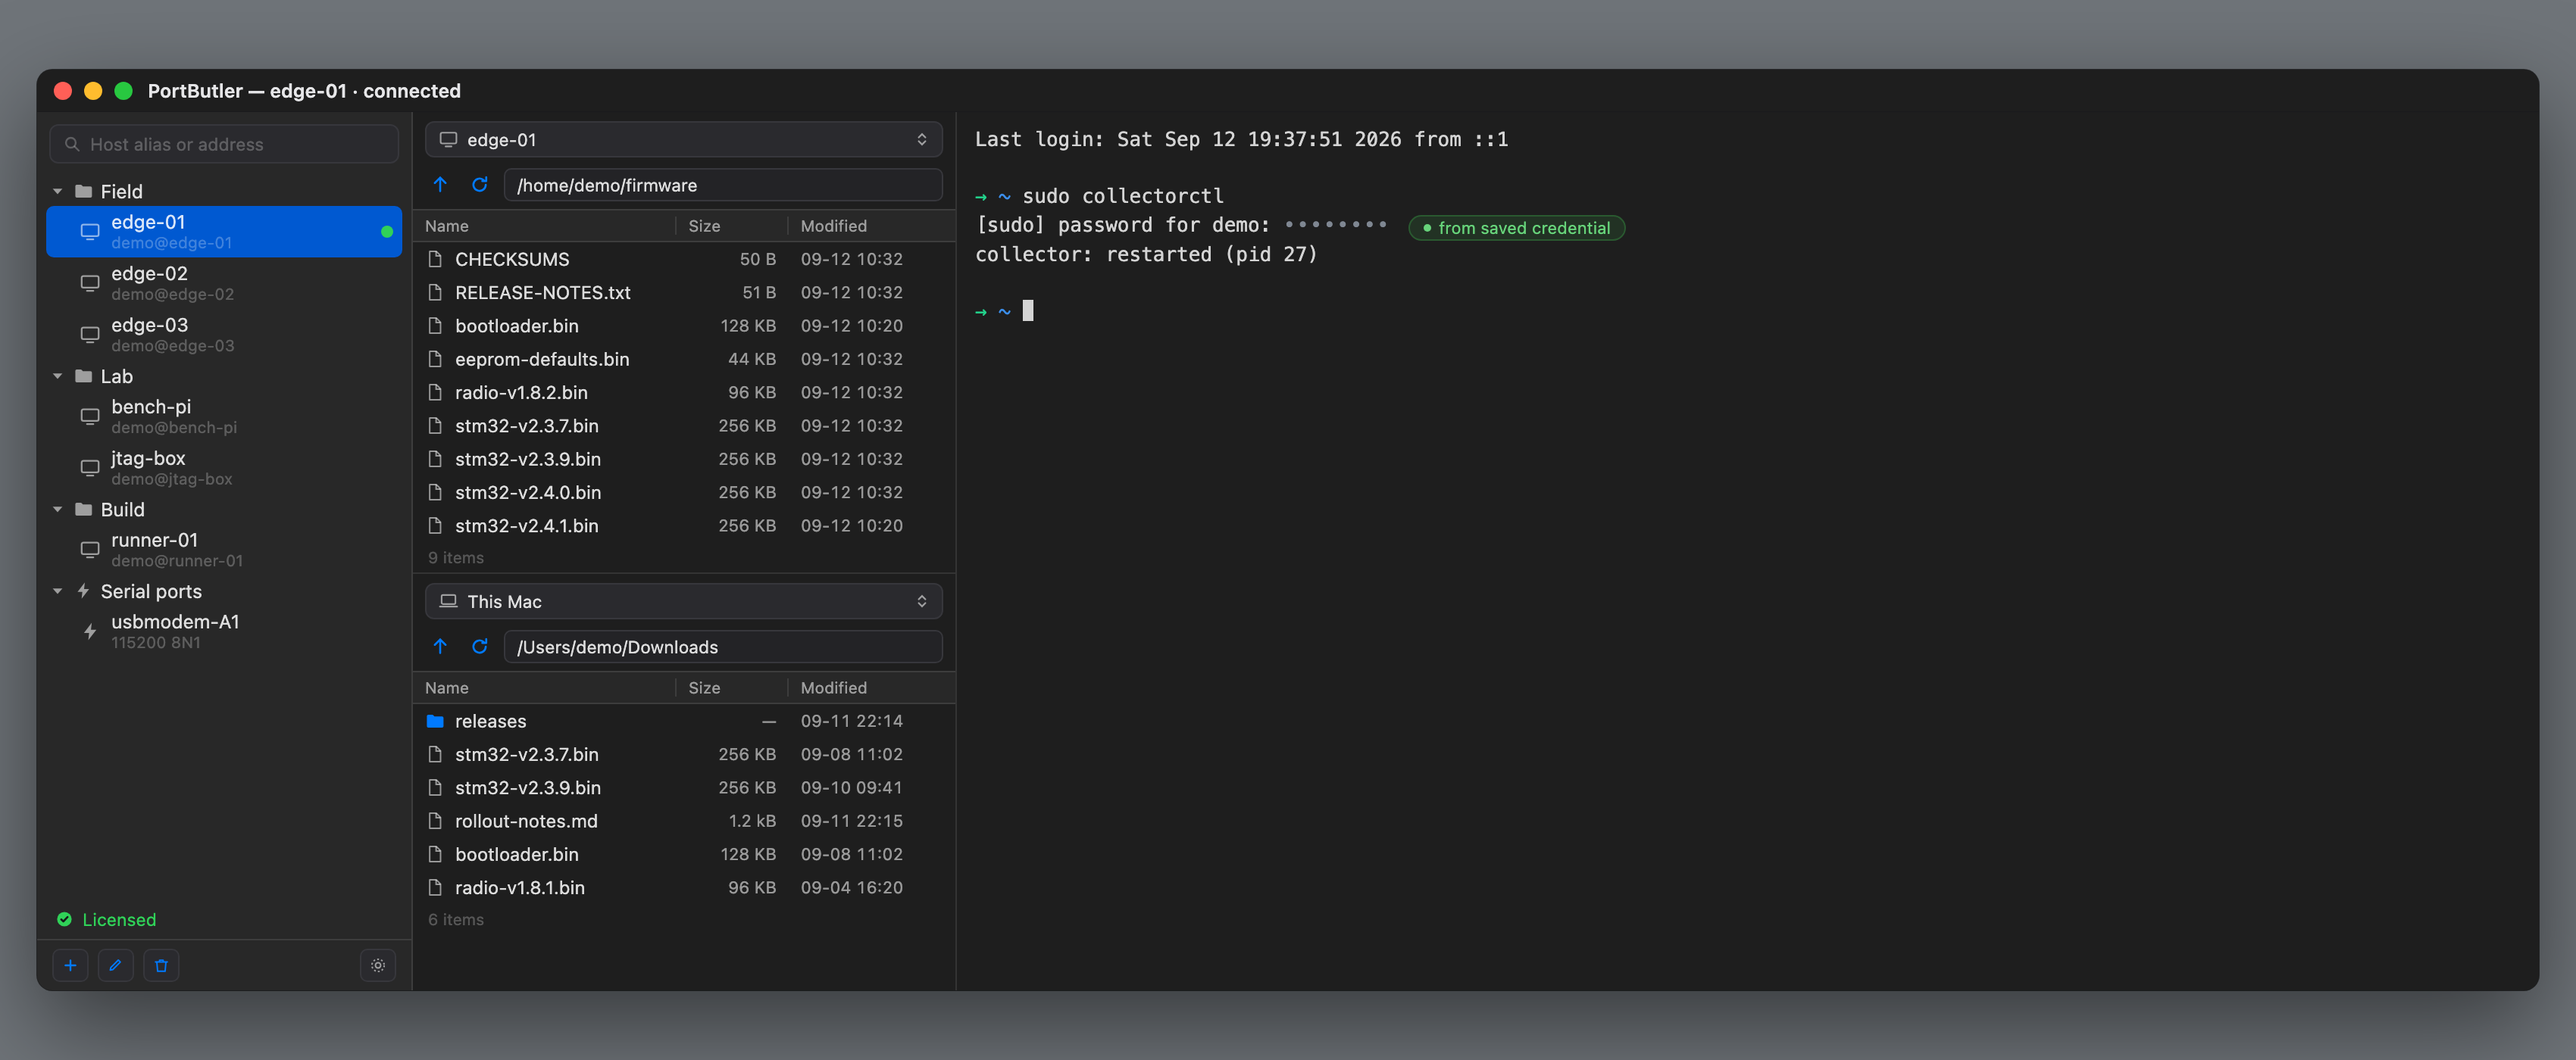
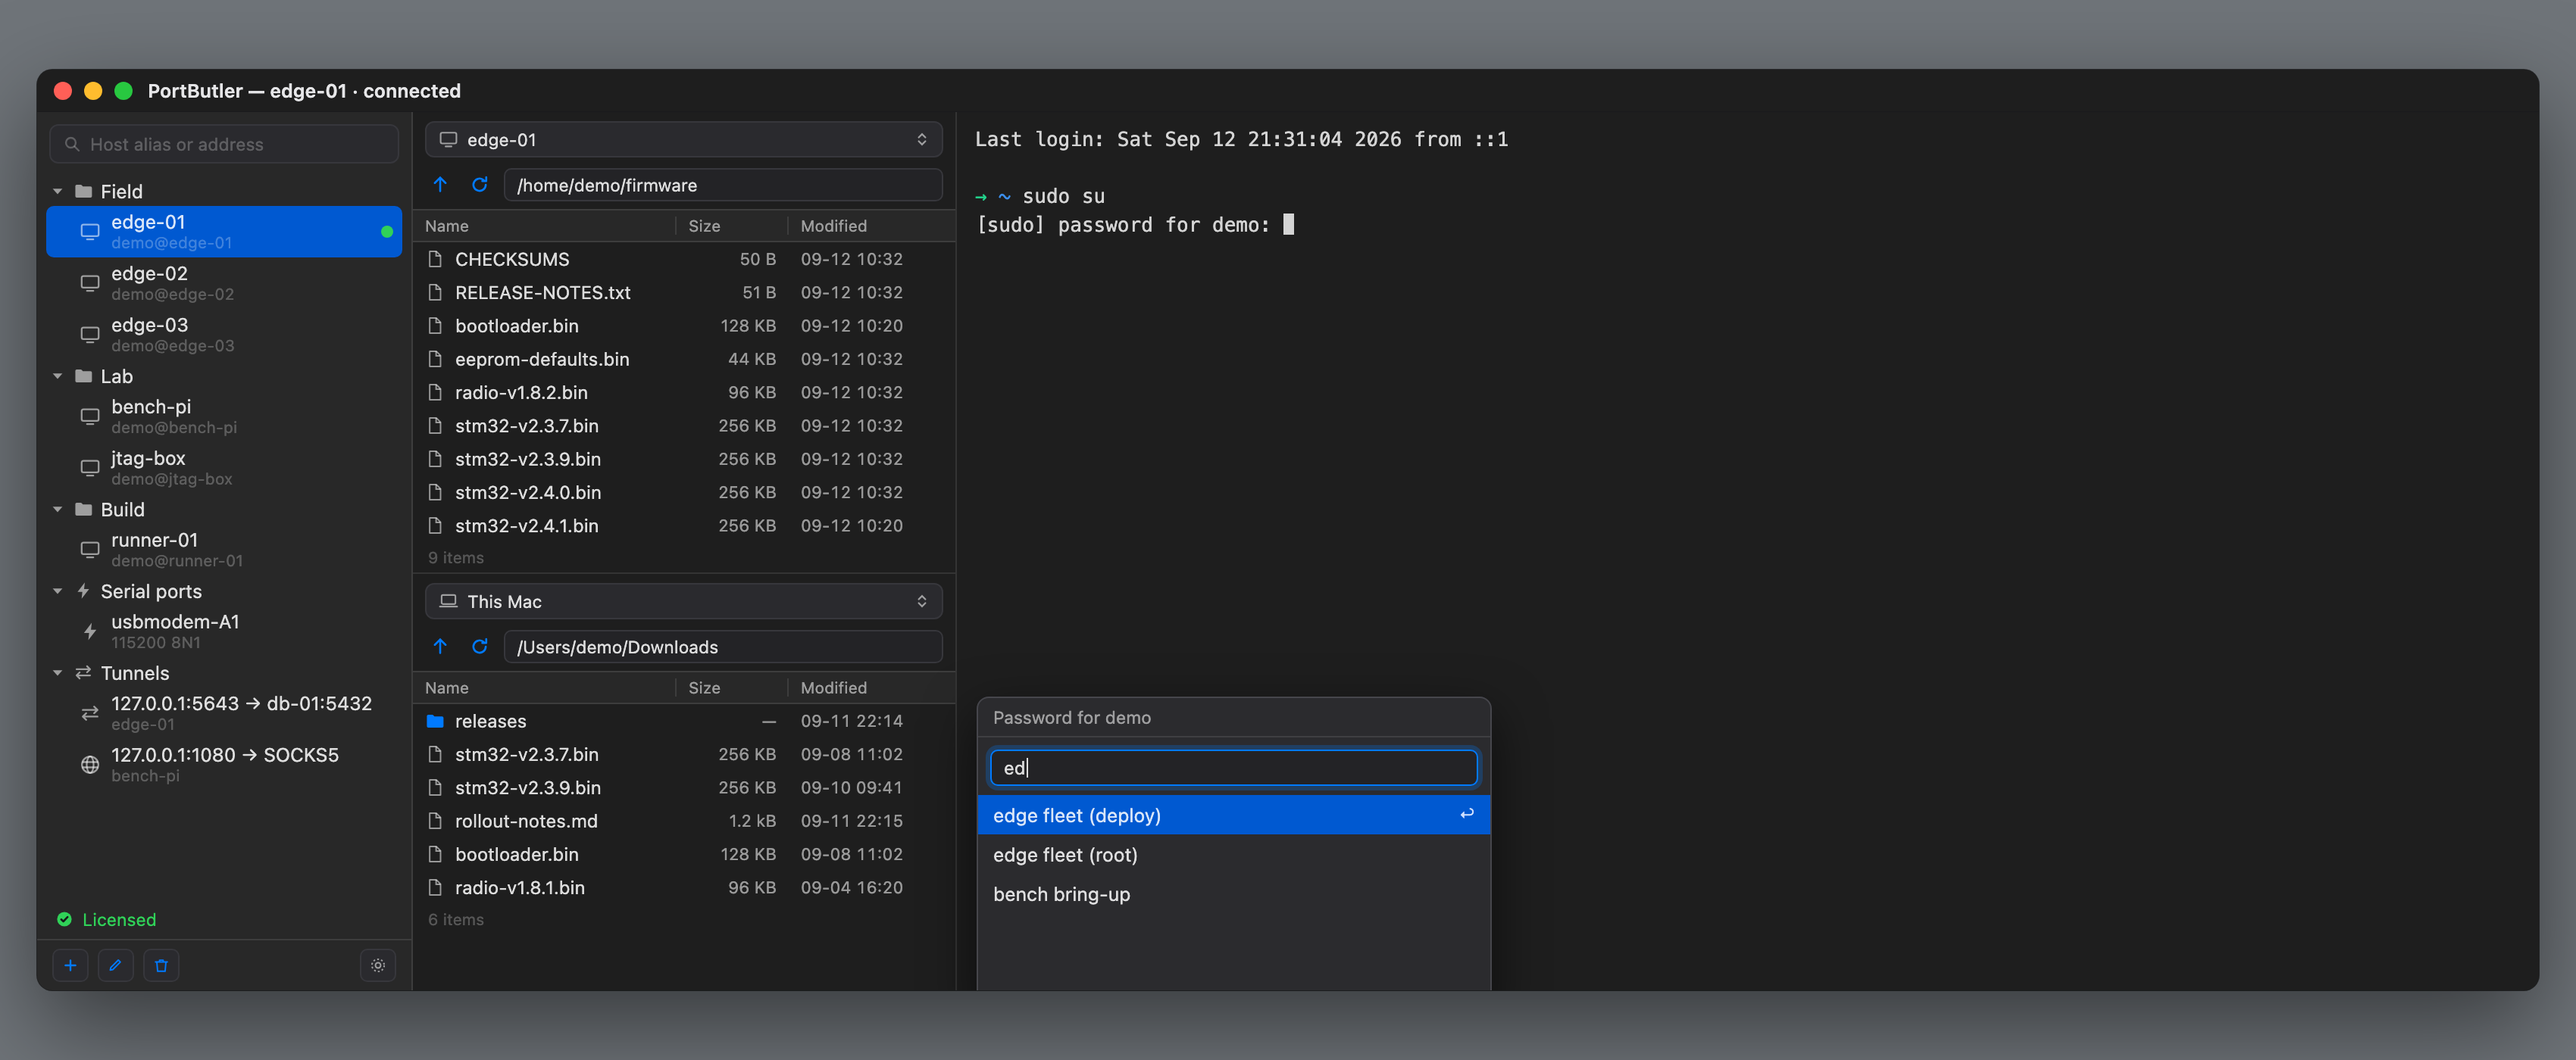
Tunnels, the credential list, and a transfer showing its rate
The speed claim finally has a picture: megabytes per second and the time
left, on screen while the file moves. Open forwards are collected in one
list. Answering a password prompt happens over the prompt now.

diff --git a/README.md b/README.md
@@ -82,6 +82,15 @@ explanation is right.
 (200 ms) leaves a sequential transfer crawling; a parallel one barely notices.
 
 <p align="center">
+  <img src="docs/feat-xfer.png" width="900" alt="A transfer in progress, showing megabytes per second and the time left">
+</p>
+
+<p align="center">
+<i>The rate is on screen while it runs — megabytes per second and the time
+left, in the same units as the table above.</i>
+</p>
+
+<p align="center">
   <img src="docs/feat-drag.png" width="900" alt="Dragging a firmware image from the remote pane down to the Mac">
 </p>
 
@@ -152,8 +161,9 @@ reconnects.
 </p>
 
 <p align="center">
-<i>And when the far side asks for a password mid-session, it can answer from a
-credential you saved in the Keychain — instead of you retyping it.</i>
+<i>And when the far side asks for a password, the list opens over the prompt —
+type to filter, Return to send. The password comes from the Keychain; it is
+never shown and never typed again.</i>
 </p>
 
 ---
@@ -271,15 +281,20 @@ The full comparison — **including what these tools do better than us** — is 
 </p>
 
 **Sessions** — groups, aliases, notes, and jump chains that reference hosts by
-**ID**, so renaming a bastion never breaks the chain. Everything lives in one
-JSON file you can carry to another Mac.
+**ID**, so renaming a bastion never breaks the chain. Recent connections are one
+click from the welcome panel, and an empty list offers to fill itself from your
+`ssh_config`. Everything lives in one JSON file you can carry to another Mac.
+
+**Tunnels** — every port forward you have open, from every window, in one list.
+Close one from there; search finds it by port number. A forward you cannot see
+is a forward you forget.
 
 **SFTP** — drag and drop both ways, edit remote files in your own editor with
 saves uploaded automatically, and downloads that never silently overwrite.
 
-**Serial** — `/dev/cu.*` detected automatically, speed and framing picked at
-connect time, XMODEM/YMODEM transfers, control lines, and a hex mode for binary
-protocols.
+**Serial** — `/dev/cu.*` detected automatically — minus the two every Mac has
+and nobody wants to see. Speed and framing picked at connect time, XMODEM/YMODEM
+transfers, control lines, and a hex mode for binary protocols.
 
 **Session logging** — timestamped, rotating, on both SSH and serial, with no
 measurable cost to throughput.
